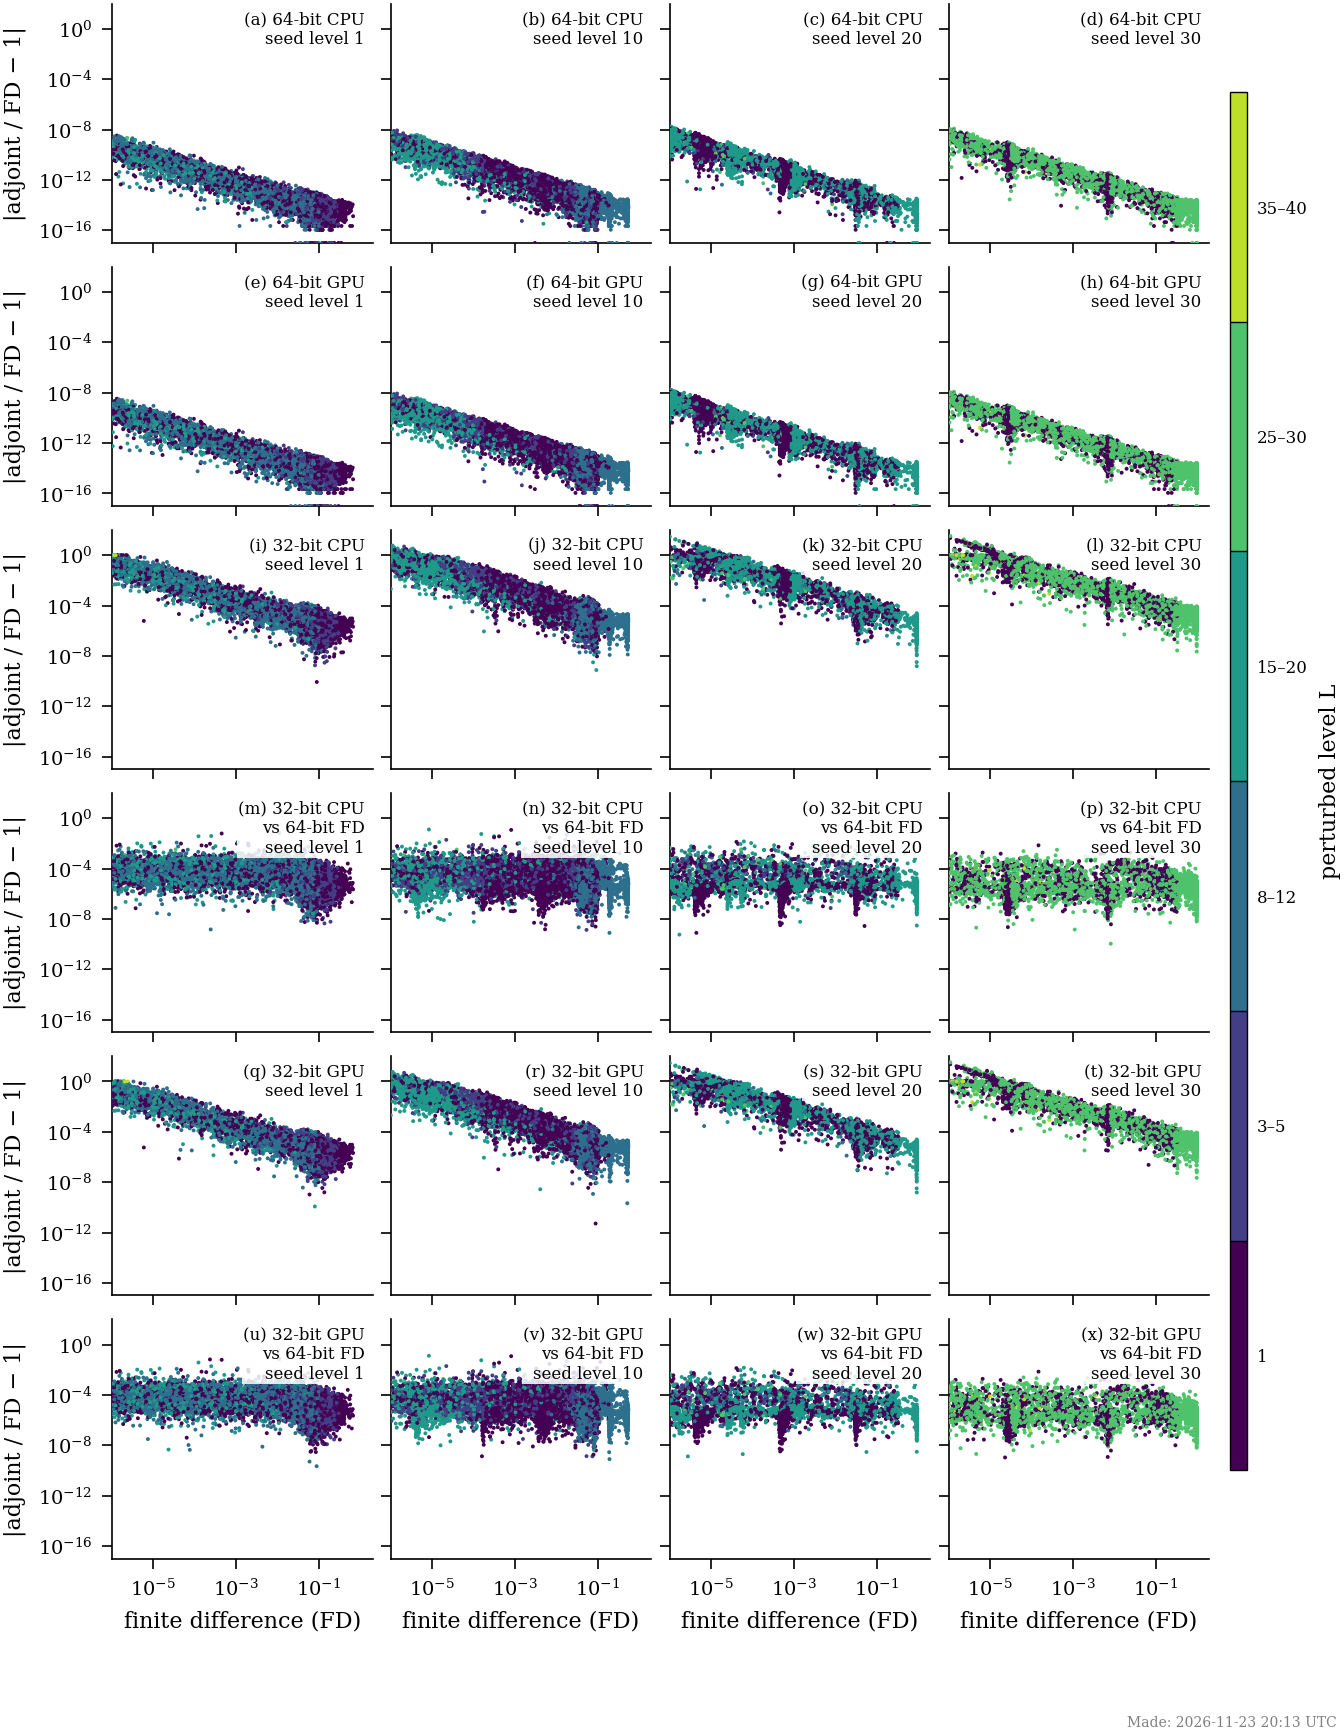
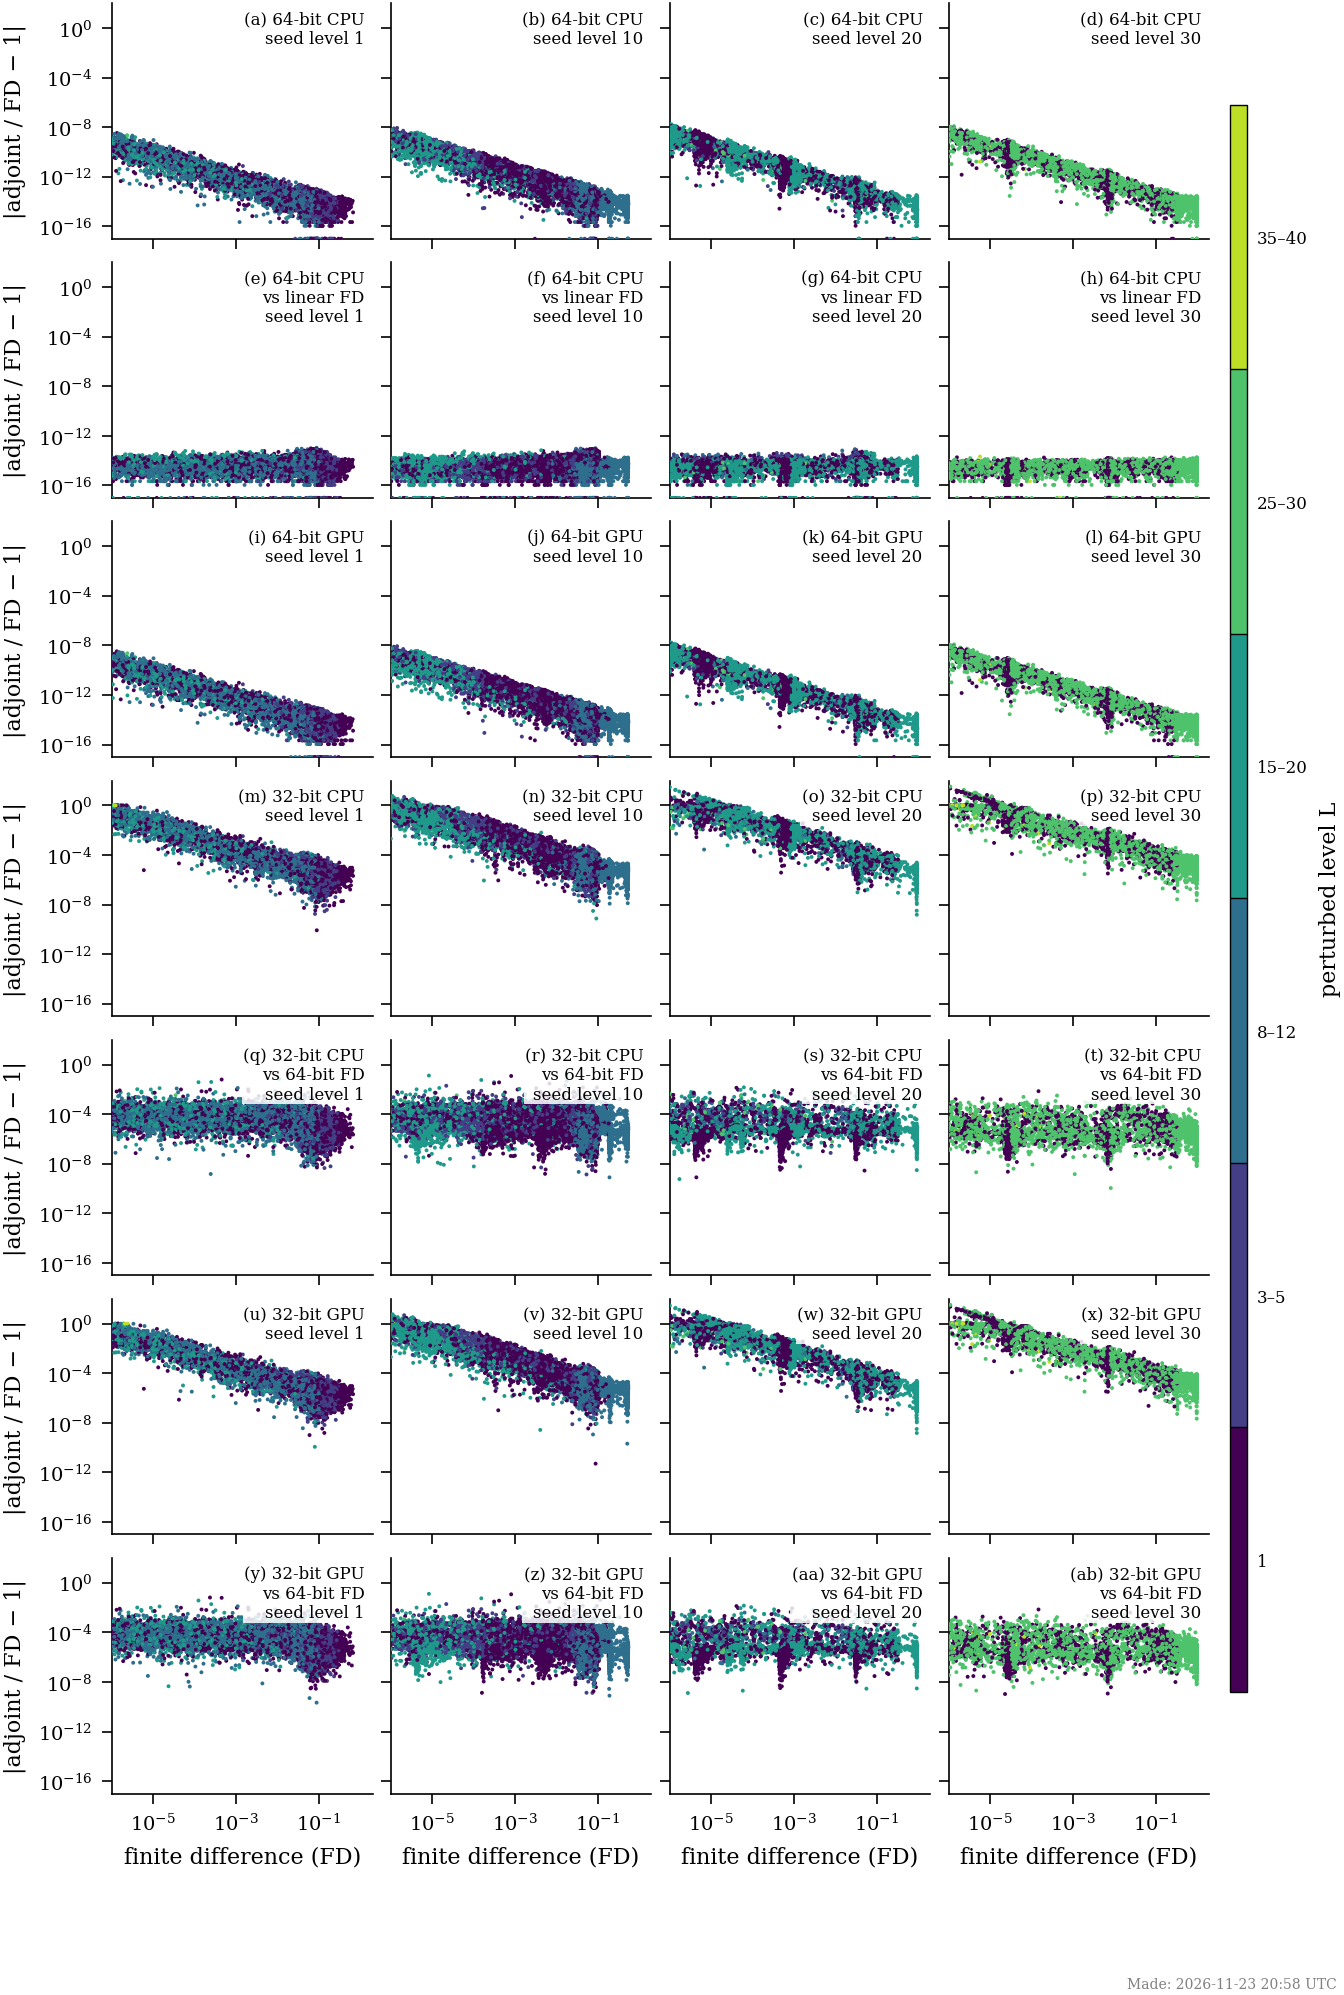
AtmosTransport adjoint A1: add Float64 adjoint vs linear FD row, explain the FD round-off slope

diff --git a/AtmosTransport/adjoint/a1_pbl_c90_20220701/index.html b/AtmosTransport/adjoint/a1_pbl_c90_20220701/index.html
@@ -72,8 +72,8 @@ details[open] summary { margin-bottom: 0.6rem; }
   <p class="meta"><a href="../../../">Home</a> › <a href="../../">AtmosTransport</a> › Adjoint tests</p>
   <div class="eyebrow">AtmosTransport.jl · CO₂ adjoint and 4D-Var</div>
   <h1>AT Adjoint Ladder</h1>
-  <p class="prose">Which adjoints <a href="https://github.com/RemoteSensingTools/AtmosTransport.jl">AtmosTransport.jl</a> (AT) can compute, which of them we have verified, and the first verification step (A1: boundary-layer mixing alone), on the way to a CO₂ 4D-Var flux inversion with AT.</p>
-  <p class="meta">Page generated 2026-11-23 20:35 UTC · AT origin/main 78210a013, unmodified · figures carry their own "Made:" time</p>
+  <p class="prose">Which adjoints AT can compute, which of them we have verified, and the first verification step (A1: boundary-layer mixing alone). Part of the work towards a CO₂ 4D-Var flux inversion with <a href="https://github.com/RemoteSensingTools/AtmosTransport.jl">AtmosTransport.jl</a>.</p>
+  <p class="meta">Page generated 2026-11-23 21:05 UTC · AT origin/main 78210a013, unmodified · figures carry their own "Made:" time</p>
 </header>
 
 <!-- ============================================================ PART 1 -->
@@ -204,9 +204,9 @@ details[open] summary { margin-bottom: 0.6rem; }
 
   <h3>Result</h3>
   <ul class="prose" style="margin:0;padding-left:1.2rem;display:flex;flex-direction:column;gap:0.3rem">
-    <li><strong>Float64 passes on CPU and GPU.</strong> Weighted error 2–4e-14, median 2e-14 to 3e-12, 100 % same sign. CPU and GPU adjoints differ by at most 1.8e-11 relative.</li>
+    <li><strong>Float64 passes on CPU and GPU.</strong> Against the central FD: weighted error 2–4e-14, median 2e-14 to 3e-12, 100 % same sign. Against the linear FD, which has no cancellation: median 3e-15 to 8e-15, max 1.1e-13, flat in the size of the response. CPU and GPU adjoints differ by at most 1.8e-11 relative.</li>
     <li><strong>Float32 adjoint error is about 1e-5</strong> against the Float64 FD: weighted 5e-6 to 3e-5, median 2e-6 to 1e-5, 99th percentile below 1e-3, no sign errors. The error does not grow for small sensitivities. The worst single columns (up to 0.13) have sensitivities near 1e-6.</li>
-    <li><strong>Float32 finite differences are not reliable</strong> for sensitivities below about 1e-3. Each FD subtracts two runs near 450 ppm, so Float32 round-off dominates (rows 3 and 5 of the figure). Use Float64 FD as the reference.</li>
+    <li><strong>Float32 finite differences are not reliable</strong> for sensitivities below about 1e-3. Each FD subtracts two runs near 450 ppm, so Float32 round-off dominates (rows m–p and u–x of the figure). Use Float64 FD as the reference.</li>
     <li><strong>The GPU is 8× faster</strong> than 16 CPU threads for the adjoint.</li>
   </ul>
 
@@ -223,6 +223,11 @@ details[open] summary { margin-bottom: 0.6rem; }
       <tr><td></td><td class="num">10</td><td class="num">19 327</td><td class="num">4.2e-14</td><td class="num">4.6e-14</td><td class="num">1.3e-9</td><td class="num">8.7e-9</td><td class="num">100 %</td></tr>
       <tr><td></td><td class="num">20</td><td class="num">10 291</td><td class="num">4.5e-14</td><td class="num">2.6e-12</td><td class="num">5.1e-9</td><td class="num">1.9e-8</td><td class="num">100 %</td></tr>
       <tr><td></td><td class="num">30</td><td class="num">6 949</td><td class="num">3.1e-14</td><td class="num">9.0e-13</td><td class="num">2.9e-9</td><td class="num">1.2e-8</td><td class="num">100 %</td></tr>
+      <tr class="group"><td colspan="8">Float64 CPU adjoint, against the linear FD (perturbation-only tracer)</td></tr>
+      <tr><td>Float64 CPU</td><td class="num">1</td><td class="num">17 299</td><td class="num">1.2e-14</td><td class="num">7.9e-15</td><td class="num">–</td><td class="num">1.1e-13</td><td class="num">100 %</td></tr>
+      <tr><td></td><td class="num">10</td><td class="num">19 327</td><td class="num">9.5e-15</td><td class="num">5.4e-15</td><td class="num">–</td><td class="num">1.0e-13</td><td class="num">100 %</td></tr>
+      <tr><td></td><td class="num">20</td><td class="num">10 291</td><td class="num">4.8e-15</td><td class="num">3.3e-15</td><td class="num">–</td><td class="num">8.4e-14</td><td class="num">100 %</td></tr>
+      <tr><td></td><td class="num">30</td><td class="num">6 949</td><td class="num">4.5e-15</td><td class="num">3.3e-15</td><td class="num">–</td><td class="num">2.2e-14</td><td class="num">100 %</td></tr>
       <tr class="group"><td colspan="8">Float32 adjoint, against the Float64 CPU FD</td></tr>
       <tr><td>Float32 CPU</td><td class="num">1</td><td class="num">17 299</td><td class="num">1.9e-5</td><td class="num">1.0e-5</td><td class="num">9.0e-4</td><td class="num">7.0e-2</td><td class="num">100 %</td></tr>
       <tr><td></td><td class="num">10</td><td class="num">19 327</td><td class="num">2.5e-5</td><td class="num">8.2e-6</td><td class="num">9.1e-4</td><td class="num">1.3e-1</td><td class="num">100 %</td></tr>
@@ -253,8 +258,14 @@ details[open] summary { margin-bottom: 0.6rem; }
 
   <figure>
     <img src="img/fig_a1_day1_diff.png" alt="Relative error of the adjoint against the finite difference, per column, for four seed levels and six setups" loading="lazy">
-    <figcaption><strong>Relative error |adjoint/FD − 1| against the FD</strong>, one point per column, coloured by the perturbed level <i>L</i>. Rows: (a–h) Float64 CPU and GPU against their own FD; (i–l, q–t) Float32 against its own Float32 FD; (m–p, u–x) Float32 against the Float64 FD. Columns: seed level <i>r</i> = 1, 10, 20, 30. Float64 errors fall from 1e-8 to 1e-16 as the sensitivity grows (round-off of the FD). Float32 against Float64 FD: flat near 1e-5.</figcaption>
+    <figcaption><strong>Relative error |adjoint/FD − 1|</strong>, one point per column, coloured by the perturbed level <i>L</i>. Rows: (a–d) Float64 CPU against its own central FD; (e–h) the same adjoint against the linear FD; (i–l) Float64 GPU against its own FD; (m–p) Float32 CPU against its own Float32 FD; (q–t) Float32 CPU against the Float64 FD; (u–x) Float32 GPU against its own FD; (y–ab) Float32 GPU against the Float64 FD. Columns: seed level <i>r</i> = 1, 10, 20, 30.</figcaption>
   </figure>
+
+  <div class="callout prose" style="display:flex;flex-direction:column;gap:0.5rem">
+    <p><strong>Why the error falls as the FD grows.</strong> The central FD subtracts two runs near 450 ppm and divides by 2ε = 100 ppm. Its round-off is therefore a constant <em>absolute</em> error δ, which in Float64 is about 1e-15 to 1e-14 in sensitivity units. A constant δ gives |adj/FD − 1| = δ/FD: a line of slope −1, from about 1e-9 at FD = 1e-6 to 1e-15 at FD = 1 (rows a–d, i–l). The Float32 FD (rows m–p, u–x) shows the same slope, about 1e9 higher.</p>
+    <p><strong>The adjoint itself is flat at about 1e-15.</strong> The linear FD comes from a tracer that carries only the perturbation (ε at level <i>L</i>, zero elsewhere), so there is no cancellation. Against it, the Float64 adjoint has a median relative error of 3e-15 to 8e-15 and a maximum of 1.1e-13, for every size of the response (rows e–h).</p>
+    <p><strong>The GCHP column test looked flat</strong> (at most 1.4e-6, independently of the response) because a relative error of about 1e-7 to 1e-6, typical of single-precision rounding somewhere in that chain, hid the FD's absolute round-off. In AT everything is Float64, so the FD round-off becomes visible.</p>
+  </div>
 
   <details>
     <summary>Scatter of adjoint against FD</summary>
@@ -264,7 +275,7 @@ details[open] summary { margin-bottom: 0.6rem; }
     </figure>
   </details>
 
-  <p class="meta">Scripts: <code>tests/a1_pbl/a1_pbl.jl</code> (test), <code>tests/a1_pbl/fig_a1_pbl.py</code> (figures, statistics). Data: <code>/temp2/ksuselj/adjoint_exps/a1_pbl/day1_*</code>. Next: the 1-month runs (not started).</p>
+  <p class="meta">Scripts: <code>tests/a1_pbl/a1_pbl.jl</code> (test), <code>tests/a1_pbl/fig_a1_pbl.py</code> (figures, statistics). Data: <code>/temp2/ksuselj/adjoint_exps/a1_pbl/day1_*</code>. 1-month runs on GPU: running (results will be added here).</p>
 </section>
 </main>
 
